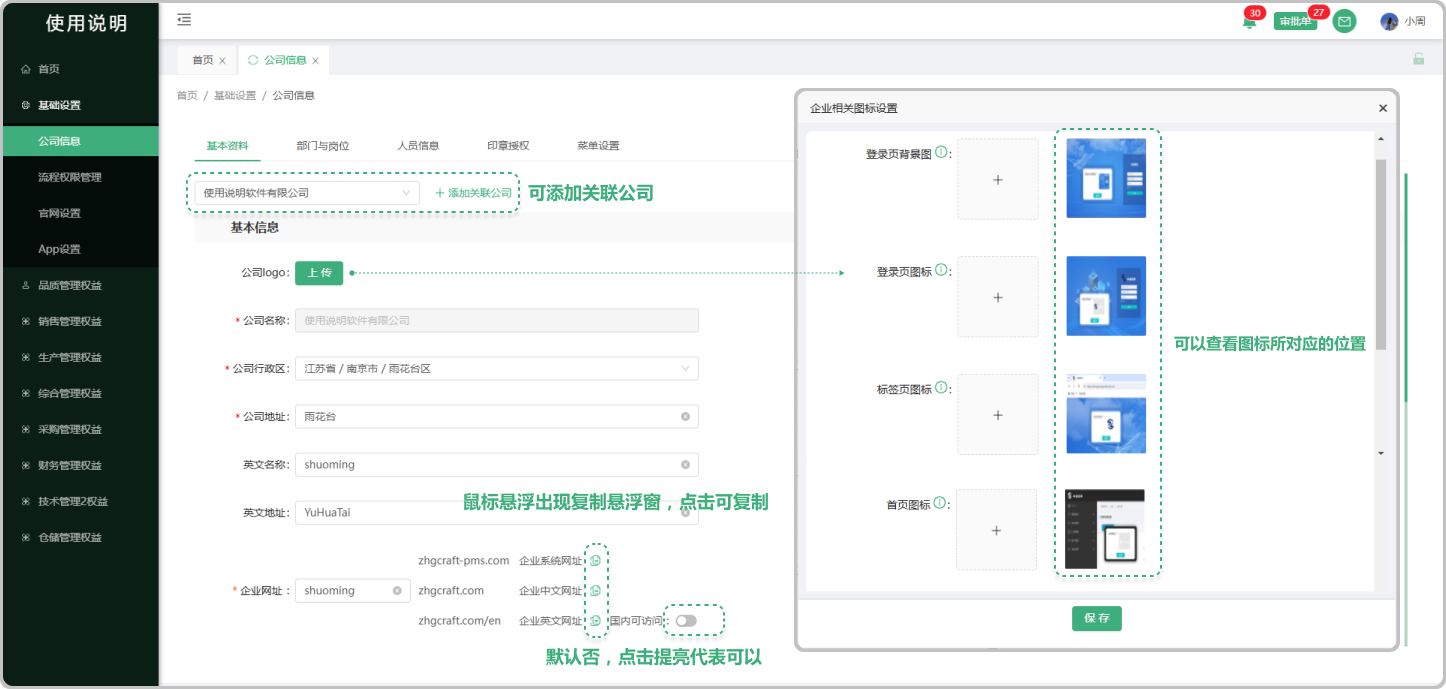
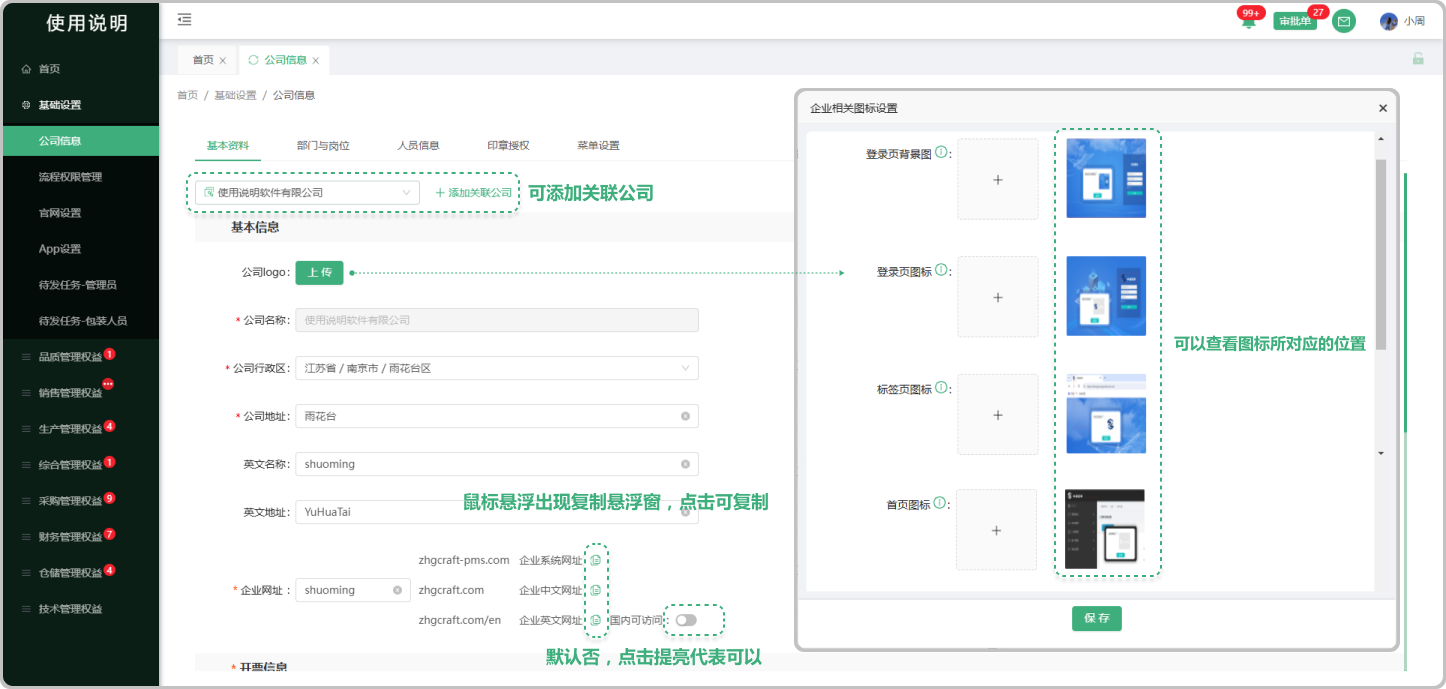
2.12 用户端迭代更新使用说明手册

diff --git a/docs/基础设置/消息气泡提醒.md b/docs/基础设置/消息气泡提醒.md
@@ -1,0 +1,76 @@
+# 消息气泡提醒
+
+> 消息气泡分为动态页面消息气泡和定制化页面消息气泡提醒
+
+
+### 1.运营端可以对页面使用的流程设置气泡描述，气泡显示的逻辑，通过动态页面进行设置
+
+* 比如，报销页面，使用的报销流程操作为动态页面配置，设置的流程审批气泡为待审批，则在用户端报销申请页面的气泡显示为待审批数量
+
+* 动态流程气泡设置：报销申请审批气泡显示未待审批，气泡逻辑为显示负责人待审批的数据
+
+* 报销申请重新发起气泡显示设置为退回，气泡逻辑为显示审批退回的数据
+
+* 报销申请-转账付讫：气泡逻辑显示未进行转账的气泡数据
+
+
+
+### 2.气泡数据显示范围
+
+* 部门负责人显示的的是部门下所有符合条件的数据总数
+
+* 部们成员显示的是自己所有符合条件的数据总数
+
+
+### 3.定制化页面消息气泡提醒
+
+#### 1.销售管理-销售询价列表气泡提醒
+
+* 销售询价列表气泡显示从未进行分发过的数据，比如采购方选择的销售联系人不在销售方维护的销售中，可以进行销售的重新分发，询价列表会进行气泡的提醒
+
+#### 2.销售报价列表气泡提醒
+
+* 销售方发起的报价单被采购方退回后，气泡提醒数量增加，大于1时气泡进行显示
+
+#### 3.销售备案列表消息提醒
+
+* 销售报价单进行备案后，备案列表生成新的备案数据，进行新备案提醒
+
+#### 4.销售方合同气泡提醒
+
+* 销售进行合同款项付款和发票提交，财务进行退回操作，销售对应合同列表会显示气泡信息
+
+#### 5.采购方报价气泡提醒
+
+* 采购方报价气泡提醒未成交的报价单数量
+
+#### 6.采购方合同气泡提醒
+
+* 采购进行合同款项付款和发票提交，财务进行退回操作，采购对应合同列表会显示气泡信息
+
+#### 7.财务合同列表气泡提醒
+
+* 销售和采购进行合同添加付款和提交发票操作后，财务合同列表接收待处理的气泡提醒，同时对应合同款项确认和发票确认会显示提醒，进行退回操作后，并且对应合同款项和
+
+* 发票均没有带处理的数据后气泡消息数量减1
+
+#### 8.求职简历气泡提醒
+
+* 官网-招贤纳士进行职位申请，用户端-综合部页面-求职简历进行未录用气泡提醒
+
+
+
+
+
+
+
+
+
+
+
+
+
+
+
+
+

diff --git a/docs/基础设置/公司信息/基本资料.md b/docs/基础设置/公司信息/基本资料.md
@@ -9,6 +9,8 @@
 
 *  通过基础设置-公司信息-基本资料界面进行关联公司的添加，只有主公司才能够添加关联公司
 
+* 主公司前面显示图标，子公司不显示图标
+
 
 #### 2.基本信息
 
